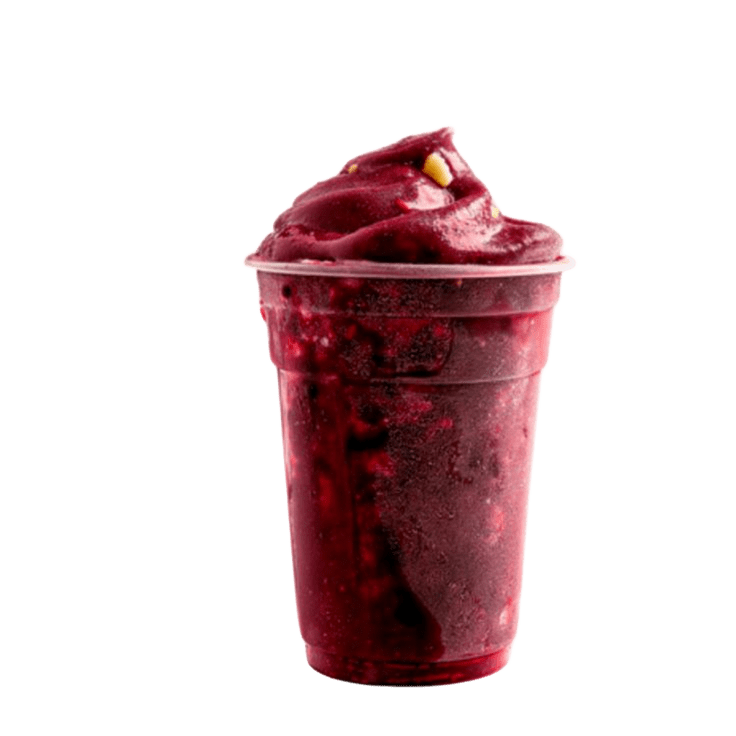
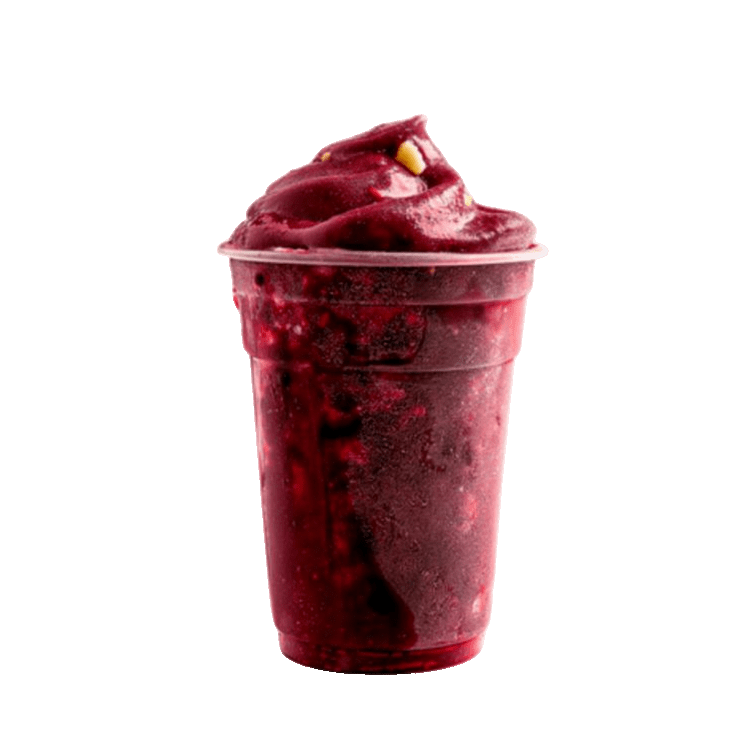
add casquinhas pages, functional and linked

Changed region(s): [[0.2812, 0.1562, 0.7812, 0.9375]]

diff --git a/html_css_js/pagina_produtos/styles/productPage.css b/html_css_js/pagina_produtos/styles/productPage.css
@@ -155,20 +155,9 @@ body {
   align-items: center;
 }
 
-.containerImg {
-  display: flex;
-  justify-content: center;
-  align-items: center;
-  width: clamp(150px, 34vw, 597px);
-  height: clamp(142px, 32vw, 571px);
-  background-color: var(--casquinha-color);
-  border-radius: 20px;
-  position: relative;
-  transition: 0.7s;
-}
 .product {
-  width: clamp(70px, 22vw, 415px);
-  height: clamp(100px, 27vw, 634px);
+  width: clamp(70px, 24vw, 410px);
+  height: clamp(80px, 25vw, 420px);
   transition: 0.7s;
 }
 
@@ -541,16 +530,9 @@ hr {
   justify-content: center;
 }
 
-.circleProduct {
-  height: 254px;
-  width: 254px;
-  background-color: var(--casquinha-color);
-  border-radius: 254px;
-  transition: 0.5s ease-in-out;
-}
-
 .circleProduct:hover {
   transform: scale(1.1);
+  box-shadow: 0px 8px 10px #9e4e65;
 }
 
 .recommendationProduct {